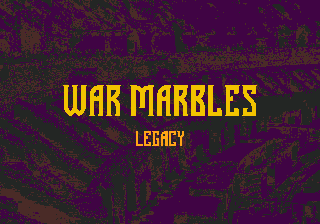
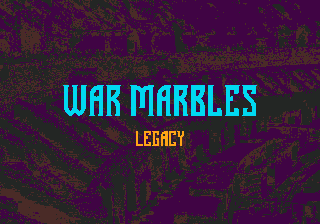
working on title screen palette stuff

Changed region(s): [[0.4062, 0.375, 0.8125, 0.5312], [0.1875, 0.375, 0.375, 0.5312]]

diff --git a/src/menu.c b/src/menu.c
@@ -102,7 +102,7 @@ void Menu_run(Menu *m) {
     for (u16 i = 0; i < 30; ++i) {
         SYS_doVBlankProcess();
     }
-    u16 title_fade_frames = 30;
+    u16 title_fade_frames = 60;
     u16 frames_to_fade = title_fade_frames;
     const Palette *pal_tgt = &PAL_TITLE_2;
     while (!m->completed) {
